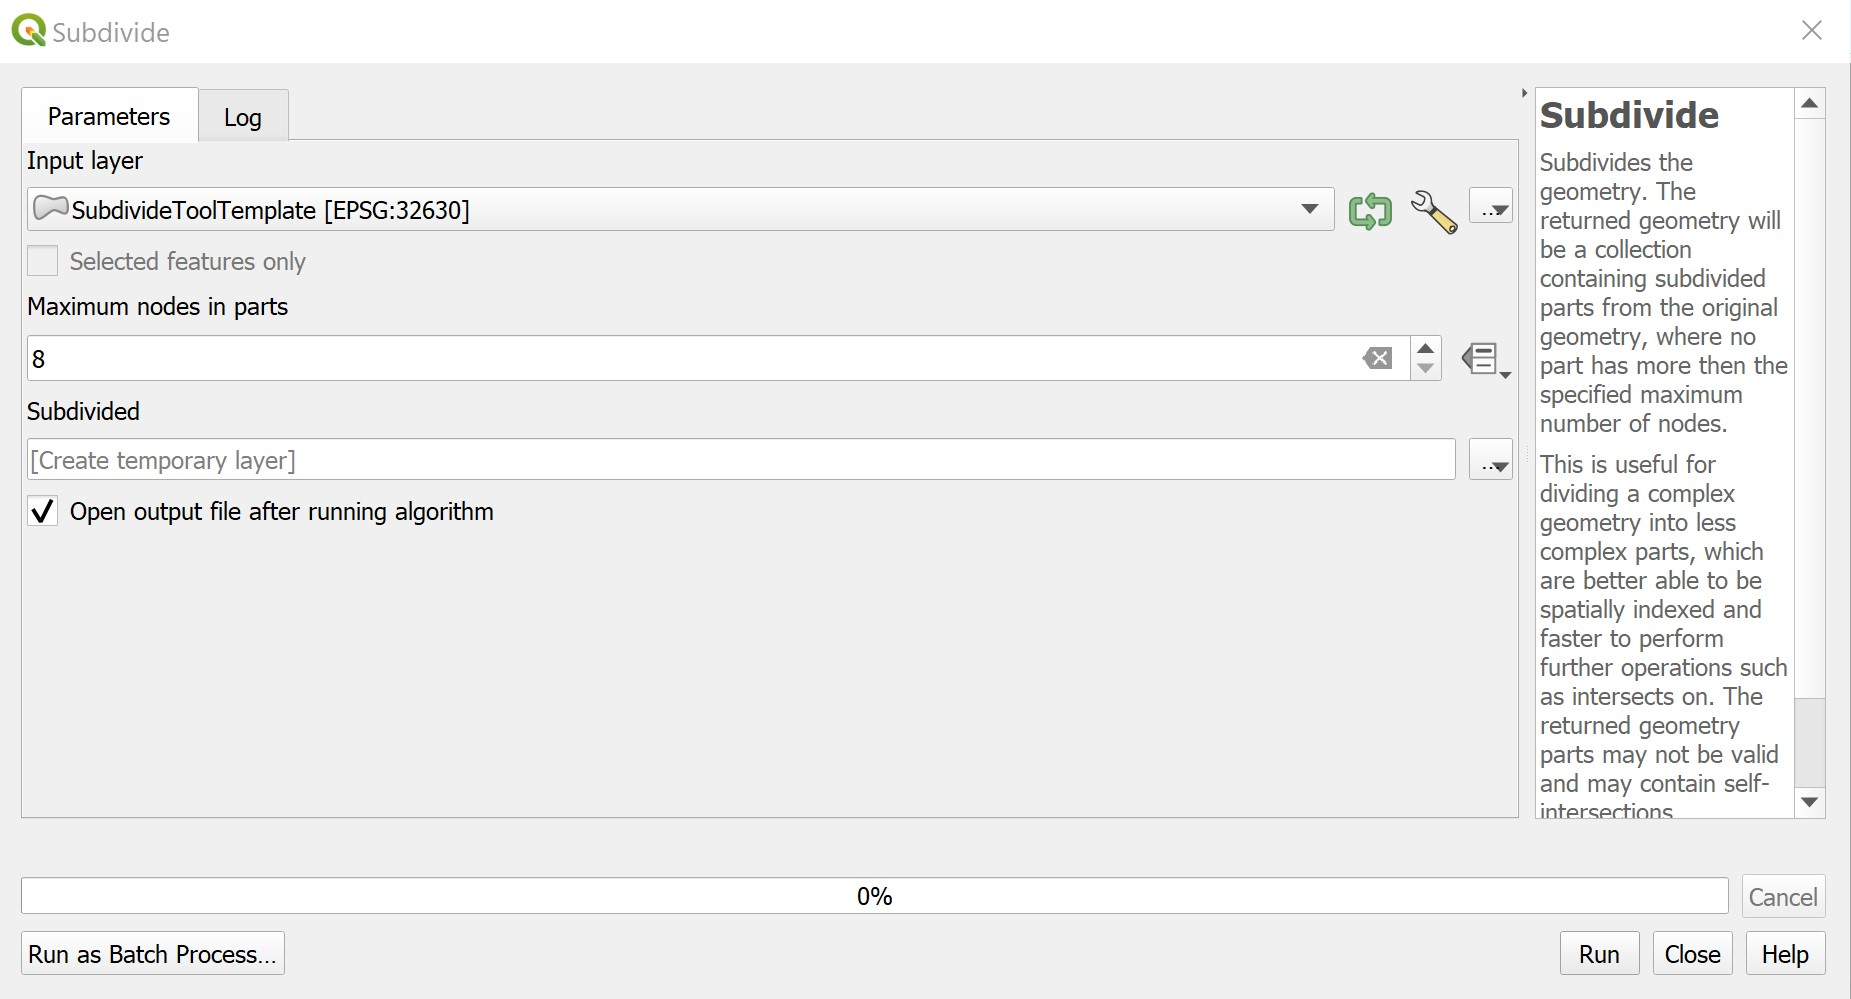
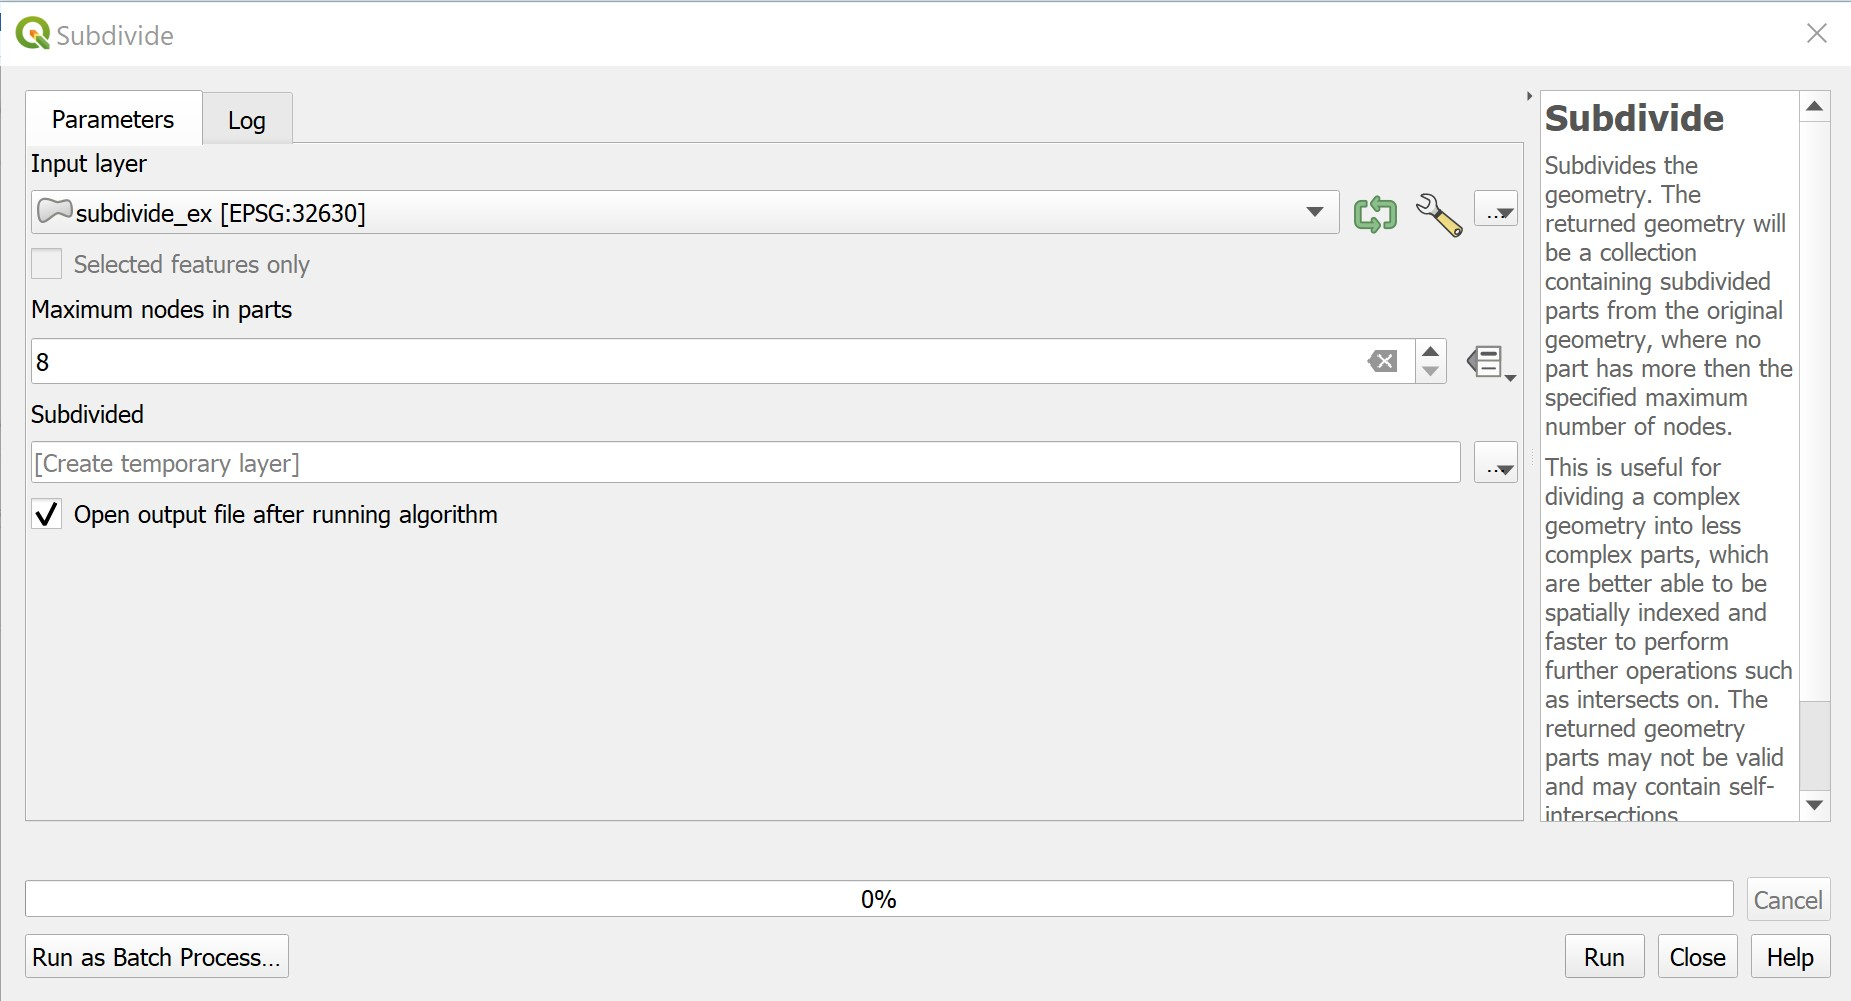
Adding draft section 3 and changing subdivide example

diff --git a/FirstDraft.md b/FirstDraft.md
@@ -21,8 +21,10 @@
     - [5. Subdivide](#5-subdivide)
     - [5.1 Usage](#51-usage)
     - [5.2 Example](#52-example)
-  - [Assignment/Result](#assignmentresult)
+  - [Exercise and Post-training Survey](#exercise-and-post-training-survey)
   - [Reference](#reference)
+  - [Exercise 1](#exercise-1)
+    - [1. Skills Practiced](#1-skills-practiced)
 
 ## 1. Introduction
 
@@ -245,9 +247,9 @@ In our case, this tool allows us to subdivide large areas of land into IDU's.
 
 ### 5.2 Example
 
-| ID | File Name      | Data Format |Type    | Description                     |
-|----|----------------|-------------|--------|---------------------------------|
-| 1  | study_area.shp | vector      |polygon | Geographic area to be subdivided|
+| ID | File Name        | Data Format |Type    | Description                     |
+|----|------------------|-------------|--------|---------------------------------|
+| 1  | subdivide_ex.shp | vector      |polygon | Geographic area to be subdivided|
 
 The figures below show the parameters and output for the **Subdivide** tool.
 
@@ -255,10 +257,23 @@ The figures below show the parameters and output for the **Subdivide** tool.
 | ------------------------ | ----------- |
 | ![Raster calculator parameters](./pictures/SubDivParameters.jpg)| ![Subdivide output](./pictures/SubDivEx.jpg)|
 
-## Assignment/Result
-Create IDU for a different district based on the process detailed above
+## Exercise and Post-training Survey
+* Please complete the Exercise 1.
+* Please take this post-training survey (required).
 
 ## Reference
 
 1. <a id="a framework for land evaluation"></a>FAO. (1976). A framework for land evaluation (No. 32; Soils Bulletins). Food and Agriculture Organization of the United Nations. http://www.fao.org/3/X5310E/x5310e00.htm
 2. <a id="land evaluation for development"></a>FAO. (1990). Land evaluation for development. Food and Agriculture Organization of the United Nations. https://www.fao.org/3/U1980E/u1980e00.htm
+
+
+## Exercise 1
+### 1. Skills Practiced
+* Development of IDU's
+
+This exercise will utilize the following tools:
+1. DBSCAN Clustering
+2. Proximity
+3. Raster Calculator
+4. Reclassify by Table
+5. Subdivide
